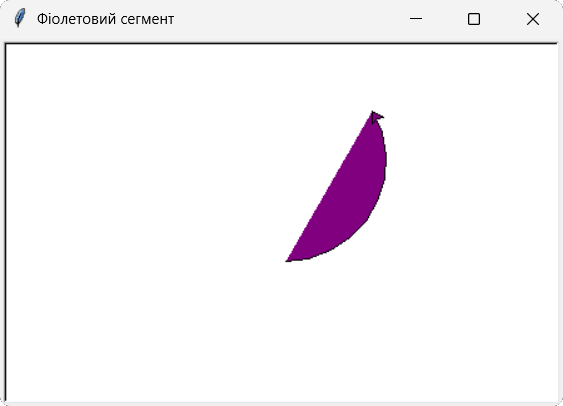
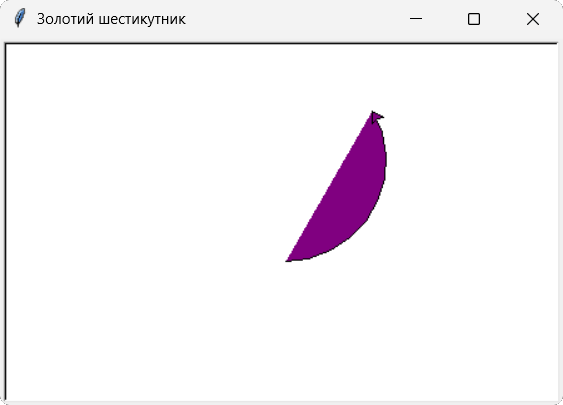
20260609_turtle_mtopic_5

diff --git a/topics/turtle_topic5.html b/topics/turtle_topic5.html
@@ -4,7 +4,7 @@
 <head>
     <meta charset="UTF-8">
     <meta name="viewport" content="width=device-width, initial-scale=1.0">
-    <title>тема 4 Turtle | Рождественська школа</title>
+    <title>тема 5 Turtle | Рождественська школа</title>
     <link rel="stylesheet" href="../style.css">
     <link rel="icon" type="image/png" href="../images/Logo.png">
     <link rel="stylesheet" href="https://cdnjs.cloudflare.com/ajax/libs/font-awesome/6.5.0/css/all.min.css">
@@ -43,8 +43,8 @@
         <div class="hero-container">
             <div class="hero-text">
                 <!--<span class="sub-title" style="color: #FF8C00; font-weight: bold;">Практичний модуль</span> -->
-                <h1>Тема 4</h1>
-                <h2>Кола та точки у Turtle.
+                <h1>Тема 5</h1>
+                <h2>Орнаменти та візерунки у Turtle.
                 </h2>
                 <a href="../turtle.html#tasks" class="hero-btn">до цеху turtle</a>
             </div>
@@ -63,220 +63,114 @@
             <div class="lesson-block">
                 <h3>Теоретичний матеріал</h3>
                 <p>
-                    В цьому розділі ти дізнаєшся про те, що крім ліній та багатокутників, які ти вже вмієш малювати,
-                    як можна створювати: кола, дуги та кольорові точки.
+                    В цьому розділі ти дізнаєшся, як створювати орнаменти та візерунки у Turtle.
                 </p>
                 <p>
-                    Для цього в модулі turtle є методи: circle() та dot(), які будемо зараз вивчати.
+                    <i><b>Візерунок</b></i> - це повторювана геометрична форма, яка може бути створена за допомогою turtle.
                 </p>
-                <p><b>Метод circle() :</b></p><br>
-                <table>
-                    <thead>
-                        <tr>
-                            <th>Метод</th>
-                            <th>Опис</th>
-                        </tr>
-                    </thead>
-                    <tbody>
-                        <tr>
-                            <td class="property-name">circle(радіус)</td>
-                            <td>
-                                Черепашка малює коло вказаного радіусу. Наприклад:
-                                turtle.circle(100) - буде намальоване коло з радіусом 100 пікселів.
-                            </td>
-                        </tr>
-                        <tr>
-                            <td class="property-name">circle(радіус, кут)</td>
-                            <td>
-                                Черепашка малює частину кола (дугу). Наприклад: turtle.circle(100, 180) - буде
-                                намальована дуга з радіусом 100 пікселів довжиною 180°, тобто півколо.
-                            </td>
-                        </tr>
-                        <tr>
-                            <td class="property-name">circle(радіус, кут, кроки)</td>
-                            <td>
-                                Черепашка замість кола малює багатокутник. Наприклад: turtle.circle(100, 360, 5) - буде
-                                намальований рівносторонній п'ятикутник, а в цьому прикладі: turtle.circle(100, 360, 5)
-                                - буде намальований рівносторонній восьмикутник, о ось у цьому прикладі:
-                                turtle.circle(100, 180, 3) - буде намальована ламана, яка скдається із троьох ланок, які
-                                утворюють півколо.
-                            </td>
-                        </tr>
-                    </tbody>
-                </table>
+                <p>
+                    <i><b>Орнамент</b></i> - це специфічний вид візерунка, побудований на ритмічному повторенні та чергуванні його елементів.
+                </p>
+                <p>
+                    Приклади орнаментів можна побачити:
+                    <ul>
+                        <li>на вишиванках;</li>
+                        <li>на килимах;</li>
+                        <li>на шпалерах;</li>
+                        <li>на архітектурних спорудах;</li>
+                        <li>на декоративних елементах.</li>
+                    </ul>
+* У програмуванні орнаменти зручно створювати за допомогою циклів, які дозволяють багаторазово повторювати однакові дії.
 
-                <p><b>Метод dot():</b></p><br>
-                <table>
-                    <thead>
-                        <tr>
-                            <th>Метод</th>
-                            <th>Опис</th>
-                        </tr>
-                    </thead>
-                    <tbody>
-                        <tr>
-                            <td class="property-name">dot(розмір)</td>
-                            <td>
-                                Черепашка намалює круглу точку вказаного розміру. Наприклад: команда turtle.dot() -
-                                намалює точку товщиною в 1 піксель (значення за замовчуванням), а команда turtle.dot(20)
-                                - намалює точку товщиною в 20 пікселів.
-                            </td>
-                        </tr>
-                        <tr>
-                            <td class="property-name">dot(розмір, "колір")</td>
-                            <td>
-                                Черепашка намалює круглу точку вказаного розміру та кольору. Наприклад: команда
-                                turtle.dot(60, "red") - намалює червону точку товщиною в 60 пікселів.
-                            </td>
-                        </tr>
-                    </tbody>
-                </table><br>
+                </p>
             </div>
 
             <!-- Приклад -->
             <div class="lesson-block">
                 <h3>Приклади</h3>
                 <p>
-                    1. Намалюємо коло оранжевого кольору з радіусом 80.
+                    1. Намалюємо візерунок "Зірка Turtle" жовтого кольору з червоним контуром.
                 </p>
                 <div class="example-container">
                     <div class="example-code">
                         <h4 class="example-title">Код програми </h4>
                         <pre><code class="language-python">import turtle
-scr=turtle.Screen()
-scr.title("Коло з радіусом 80")
-scr.setup(width=450, height=350)
-t = turtle.Turtle()
-t.pencolor("#ff8c00")
-t.pensize(3)
-t.circle(80)
+screen = turtle.Screen()
+screen.title("Зірка Turtle")
+screen.setup(width=450, height=350)
+soloha=turtle.Turtle()
+soloha.color('red', 'yellow')
+soloha.begin_fill()
+for i in range(36):
+    soloha.forward(200)
+    soloha.left(170)
+soloha.end_fill()
 turtle.done()
 </code></pre>
                     </div>
                     <div class="example-image">
                         <h4 class="example-title">Результат</h4>
-                        <img src="../images/turtle/turtle_ex_4_01.png" alt="Приклад turtle" , style="width: 350px;">
+                        <img src="../images/turtle/turtle_ex_5_01.png" alt="Приклад turtle" , style="width: 380px;">
                     </div>
                 </div><br>
                 <p>
-                    2. Намалюємо круг зеленого кольору з радіусом 80.
+                    2. Намалюємо орнамент з ромбів у жовто блакитних кольорах.
                 </p>
                 <div class="example-container">
                     <div class="example-code">
                         <h4 class="example-title">Код програми </h4>
                         <pre><code class="language-python">import turtle
-scr=turtle.Screen()
-scr.title("Круг з радіусом 80")
-scr.setup(width=450, height=350)
-t = turtle.Turtle()
-t.fillcolor("lightgreen")
-t.begin_fill()
-t.circle(80)
-t.end_fill()
-turtle.done()
-</code></pre>
-                    </div>
-                    <div class="example-image">
-                        <h4 class="example-title">Результат</h4>
-                        <img src="../images/turtle/turtle_ex_4_02.png" alt="Приклад turtle" , style="width: 380px;">
-                    </div>
-                </div><br>
-                <p>
-                    3. Намалюємо шестикутник золотистого кольору.
-                </p>
-                <div class="example-container">
-                    <div class="example-code">
-                        <h4 class="example-title">Код програми </h4>
-                        <pre><code class="language-python">import turtle
-scr=turtle.Screen()
-scr.title("Золотий шестикутник")
-scr.setup(width=450, height=350)
-t = turtle.Turtle()
-t.fillcolor("gold")
-t.begin_fill()
-t.circle(80, 360, 6)
-t.end_fill()
-turtle.done()
-</code></pre>
-                    </div>
-                    <div class="example-image">
-                        <h4 class="example-title">Результат</h4>
-                        <img src="../images/turtle/turtle_ex_4_03.png" alt="Приклад turtle" , style="width: 380px;">
-                    </div>
-                </div><br>
+screen = turtle.Screen()
+screen.title("Орнамент Turtle")
+screen.bgcolor("white")
+screen.setup(width=460, height=350)
+ben = turtle.Turtle() # Створення виконавця на ім'я Ben
+ben.speed(0)  # Максимальна швидкість малювання
+ben.pensize(2) # Встановлення розміру олівця
 
-                <p>
-                    4. Намалюємо фіолетовий сегмент кола.
-                </p>
-                <div class="example-container">
-                    <div class="example-code">
-                        <h4 class="example-title">Код програми </h4>
-                        <pre><code class="language-python">import turtle
-scr=turtle.Screen()
-scr.title("Фіолетовий сегмент")
-scr.setup(width=450, height=350)
-t = turtle.Turtle()
-t.fillcolor("purple")
-t.begin_fill()
-t.circle(80, 120)
-t.end_fill()
-turtle.done()
-</code></pre>
-                    </div>
-                    <div class="example-image">
-                        <h4 class="example-title">Результат</h4>
-                        <img src="../images/turtle/turtle_ex_4_04.png" alt="Приклад turtle" , style="width: 380px;">
-                    </div>
-                </div><br>
+def draw_diamond(side, color_name): '''Малювання одного кольорового ромба'''
+    ben.color(color_name)
+    ben.fillcolor(color_name)
+    ben.begin_fill()
+    for _ in range(2):
+        ben.forward(side)
+        ben.left(45)
+        ben.forward(side)
+        ben.left(135)
+    ben.end_fill()
 
-                <p>
-                    5. Намалюємо дугу кола коралового кольору з товщиною лінії 40 пікселів.
-                </p>
-                <div class="example-container">
-                    <div class="example-code">
-                        <h4 class="example-title">Код програми </h4>
-                        <pre><code class="language-python">import turtle
-scr=turtle.Screen()
-scr.title("Коралова дуга")
-scr.setup(width=450, height=350)
-t = turtle.Turtle()
-t.pencolor("coral")
-t.pensize(40)
-t.circle(70, 210)
-turtle.done()
-</code></pre>
-                    </div>
-                    <div class="example-image">
-                        <h4 class="example-title">Результат</h4>
-                        <img src="../images/turtle/turtle_ex_4_05.png" alt="Приклад turtle" , style="width: 380px;">
-                    </div>
-                </div><br>
+def draw_star_element(x, y): """Малювання одного повного елемента орнаменту"""
+    for i in range(8): # Малюємо 8 пелюсток-ромбів по колу (традиційна українська зірка)
+        ben.penup()
+        ben.goto(x, y)
+        ben.setheading(i * 45)
+        ben.pendown()
+        # Чергуємо кольори пелюсток для вишиваного ефекту
+        current_color = "royalblue2" if i % 2 == 0 else "yellow"
+        draw_diamond(40, current_color)
+    
+start_x = -140
+start_y = 0
+spacing = 140  # Відстань між центрами елементів
 
-                <p>
-                    6. Намалюємо блакитну точку розміром 150 пікселів.
-                </p>
-                <div class="example-container">
-                    <div class="example-code">
-                        <h4 class="example-title">Код програми </h4>
-                        <pre><code class="language-python">import turtle
-scr=turtle.Screen()
-scr.title("Блакитна точка")
-scr.setup(width=450, height=350)
-t = turtle.Turtle()
-t.dot(150, "lightblue")
+for count in range(3): ''' Малювання рівно трьох елементів вишивки в один ряд '''
+    draw_star_element(start_x + (count * spacing), start_y)
 turtle.done()
 </code></pre>
                     </div>
                     <div class="example-image">
                         <h4 class="example-title">Результат</h4>
-                        <img src="../images/turtle/turtle_ex_4_06.png" alt="Приклад turtle" , style="width: 380px;">
+                        <img src="../images/turtle/turtle_ex_5_02.png" alt="Приклад turtle" , style="width: 380px;">
                     </div>
                 </div><br>
+                <p>
+                   
             </div>
 
             <!-- Практична робота -->
             <div class="lesson-block">
                 <h3>Практична робота</h3>
+                <p>Створення орнаментів та візерунків у Turtle.</p>
                 <p style="font-size: 12pt;">
                     1. Намалюйте коло радіусом 150 пікселів та зафарбуйте його кориневим кольором.
                 </p>

diff --git a/turtle.html b/turtle.html
@@ -102,7 +102,7 @@
                         <a href="topics/turtle_topic5.html" class="topic-card">
                             <h3>Тема 5</h3>
                             <p>
-                                Практичні завдання
+                                Орнаменти та візерунки у Turtle.
                             </p>
                         </a>
 
